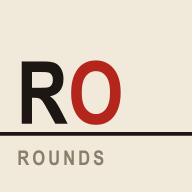
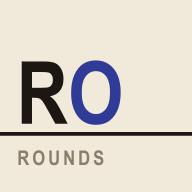
Indigo as the accent, cream paper as the ground
Nate didn't like the indigo-night ground and asked for indigo as the
accent instead. Back to Zagat cream (follows the phone: dark mode is
warm near-black), and indigo takes every job red had: list badges,
happy hour, active tab, half the wordmark, Add a place. Closed is
quiet ink-3; errors and Remove get a separate danger token. Icon O
recolored. Dot leaders, double rules, vibe line unchanged.
DESIGN.md colour section rewritten to match.

Changed region(s): [[0.3438, 0.3125, 0.6562, 0.6562]]

diff --git a/src/styles.css b/src/styles.css
@@ -1,23 +1,33 @@
 /* Rounds. Tokens per DESIGN.md; every rule below consumes them. */
-/* Menu after dark (2026-09-30): indigo night is the only theme, chosen from the moodboard deck. */
+/* Cream paper, indigo accent (2026-10-01): indigo moved from the ground to the
+ * one accent at Nate's ask. Follows the phone: dark mode is warm near-black. */
 :root {
   --font-display: "Archivo Narrow", "Arial Narrow", "Helvetica Neue", Arial, sans-serif;
   --font-body: "Archivo", "Helvetica Neue", Arial, sans-serif;
   --font-mono: "SF Mono", Menlo, Consolas, monospace;
-  --color-bg: #121933;
-  --color-bg-raised: #1A2346;
-  --color-ink: #F1E8D4;
-  --color-ink-2: #C7BFAC;
-  --color-ink-3: #8C90AC;
-  --color-rule: #2C3765;
-  --color-rule-strong: #F1E8D4;
-  --color-accent: #E04A37;
-  --color-badge: #C23A2B;
-  --color-accent-ink: #F8F1E1;
-  --color-warn-bg: #222C55;
+  --color-bg: #F1EADB;
+  --color-bg-raised: #F8F3E7;
+  --color-ink: #1C1712;
+  --color-ink-2: #55493B;
+  --color-ink-3: #8A7D6A;
+  --color-rule: #CFC3AA;
+  --color-rule-strong: #1C1712;
+  --color-accent: #2F3B96;
+  --color-badge: #2F3B96;
+  --color-accent-ink: #F8F3E7;
+  --color-danger: #A8321F;
+  --color-warn-bg: #E9DDBE;
   --radius: 2px;
   --shadow: none;
-  color-scheme: dark;
+  color-scheme: light dark;
+}
+@media (prefers-color-scheme: dark) {
+  :root {
+    --color-bg: #191511; --color-bg-raised: #221D17; --color-ink: #EFE6D3; --color-ink-2: #C2B49C;
+    --color-ink-3: #8C7F6B; --color-rule: #3C332A; --color-rule-strong: #EFE6D3;
+    --color-accent: #9AA5FF; --color-badge: #3E4BB0; --color-accent-ink: #F4EEE0;
+    --color-danger: #E2674F; --color-warn-bg: #2E271C;
+  }
 }
 
 * { box-sizing: border-box; }
@@ -66,7 +76,7 @@ input[type="search"] { -webkit-appearance: none; }
 .count-acts { display: flex; gap: 14px; }
 .toggle.reset { color: var(--color-accent); font-weight: 600; }
 .toggle, .link { color: var(--color-ink-2); background: none; border: 0; padding: 0; text-decoration: underline; text-underline-offset: 3px; font-size: inherit; }
-.link.danger { color: var(--color-accent); }
+.link.danger { color: var(--color-danger); }
 
 /* entries */
 .list { list-style: none; margin: 0; padding: 0; }
@@ -100,7 +110,7 @@ input[type="search"] { -webkit-appearance: none; }
 .vibe-by { font-style: normal; font-family: var(--font-display); font-weight: 700; font-size: 9.5px; letter-spacing: 0.1em; text-transform: uppercase; color: var(--color-ink-3); white-space: nowrap; margin-left: 2px; }
 .meta { grid-area: meta; align-self: center; font-size: 12px; color: var(--color-ink-3); font-variant-numeric: tabular-nums; margin-top: 4px; }
 .meta .open { color: var(--color-ink-2); font-weight: 500; }
-.meta .closed { color: var(--color-accent); font-weight: 500; }
+.meta .closed { color: var(--color-ink-3); font-weight: 500; }
 .meta .hh { color: var(--color-accent); font-weight: 500; }
 .meta .l { font-family: var(--font-display); font-weight: 700; letter-spacing: 0.04em; color: var(--color-ink-2); }
 .meta .l::before { content: "L "; color: var(--color-ink-3); font-weight: 500; }
@@ -138,7 +148,7 @@ input[type="search"] { -webkit-appearance: none; }
 .capture > * { max-width: 528px; margin: 0 auto; display: block; }
 
 /* sheet */
-.sheet-back { position: fixed; inset: 0; background: rgba(6, 9, 22, 0.6); z-index: 20; display: flex; align-items: flex-end; justify-content: center; }
+.sheet-back { position: fixed; inset: 0; background: rgba(20, 16, 12, 0.45); z-index: 20; display: flex; align-items: flex-end; justify-content: center; }
 .sheet { width: 100%; max-width: 560px; max-height: 92vh; overflow-y: auto; background: var(--color-bg); border-top: 2px solid var(--color-rule-strong); padding: 14px 16px calc(16px + env(safe-area-inset-bottom, 0px)); display: flex; flex-direction: column; gap: 8px; }
 .photo { margin: 0 -16px 4px; }
 .photo img { display: block; width: 100%; max-height: 260px; object-fit: cover; background: var(--color-bg-raised); }
@@ -169,7 +179,7 @@ input[type="search"] { -webkit-appearance: none; }
 .hit .muted, li.hit.muted { color: var(--color-ink-3); font-style: italic; cursor: default; }
 .sheet-acts { display: flex; justify-content: space-between; align-items: center; margin-top: 8px; }
 .sheet-acts .btn-solid { margin-left: auto; }
-.err { color: var(--color-accent); font-size: 13px; }
+.err { color: var(--color-danger); font-size: 13px; }
 
 /* auth */
 .auth-shell { min-height: 100%; display: flex; align-items: center; justify-content: center; padding: 24px 16px; background: var(--color-bg); }

diff --git a/index.html b/index.html
@@ -3,9 +3,10 @@
   <head>
     <meta charset="utf-8" />
     <meta name="viewport" content="width=device-width, initial-scale=1, maximum-scale=1, viewport-fit=cover" />
-    <meta name="theme-color" content="#121933" />
+    <meta name="theme-color" content="#F1EADB" media="(prefers-color-scheme: light)" />
+    <meta name="theme-color" content="#191511" media="(prefers-color-scheme: dark)" />
     <meta name="apple-mobile-web-app-capable" content="yes" />
-    <meta name="apple-mobile-web-app-status-bar-style" content="black-translucent" />
+    <meta name="apple-mobile-web-app-status-bar-style" content="default" />
     <meta name="apple-mobile-web-app-title" content="Rounds" />
     <link rel="manifest" href="manifest.webmanifest" />
     <link rel="apple-touch-icon" href="icon-192.png" />

diff --git a/public/sw.js b/public/sw.js
@@ -1,5 +1,5 @@
 /* Rounds service worker. Bump CACHE on every ship (the /ship skill does it). */
-const CACHE = 'rounds-v15'
+const CACHE = 'rounds-v16'
 self.addEventListener('install', (e) => { self.skipWaiting() })
 self.addEventListener('activate', (e) => {
   e.waitUntil(caches.keys().then((keys) => Promise.all(keys.filter((k) => k !== CACHE).map((k) => caches.delete(k)))).then(() => self.clients.claim()))

diff --git a/DESIGN.md b/DESIGN.md
@@ -7,7 +7,7 @@ Read this before changing anything visual.
 **The Zagat pocket guide, 1990s to 2000s.** A dense, typographic catalogue of
 places: condensed bold names in caps, a neighborhood line in small caps, a
 quoted line stitched from what people actually said, a small red mark for the
-ones that made a list. Cream paper, black ink, one red. No pictures.
+ones that made a list (Rounds spends that one accent in indigo). Cream paper, black ink, one accent. No pictures.
 
 The thing to keep hold of: it is a *reference book you carry*, not a feed. Every
 entry is scannable in one second, and the personality is in the quotes, which
@@ -28,38 +28,43 @@ discovery app (photos, cards, ratings, a map hero) it is wrong.
 - Emoji. Icons beside labels. A glyph appears only when it carries meaning alone.
 - A map as the primary surface. "Go" hands off to Google Maps.
 
-## Colour: menu after dark (2026-09-30)
+## Colour: cream paper, indigo accent (2026-10-01)
 
-The moodboard deck (App-moodboard-v2, Rounds slide) notes from Nate and Amanda:
-"Dark mode; try a blue or indigo." Nate picked the "menu after dark" direction.
-Indigo night is the **only** theme; it does not follow the phone's system
-setting. Who owns what:
+History: the moodboard deck notes ("Dark mode; try a blue or indigo") led to
+an indigo-night ground on 2026-09-30. Nate, a day later: "I don't like the
+colors as much. Can we make the indigo the accent rather than the
+background?" So the ground went back to Zagat cream and indigo replaced red
+as the one accent. The theme follows the phone: light is cream, dark is warm
+near-black, never indigo. Who owns what:
 
-- **Zagat pocket guide** still owns type, density, the quoted notes and the
-  one-red rule. Unchanged.
-- **The Infatuation + NYT 100 Best** (both blue grounds, sampled `#3C63EF` and
-  `#599EE3`) own the ground. Taken darker to indigo so the cream reads at night.
+- **Zagat pocket guide** owns the ground (cream paper, black ink), type,
+  density and the quoted notes.
+- **The Infatuation + NYT 100 Best** (both blue, sampled `#3C63EF` and
+  `#599EE3`) own the accent, taken darker to indigo so it holds on cream.
 - **Old NYC menus** own the devices: the dot leader and the double rule.
 
-| Token | Value | Role |
-| --- | --- | --- |
-| `--color-bg` | `#121933` | Page ground, indigo night. |
-| `--color-bg-raised` | `#1A2346` | Inputs, the capture bar. |
-| `--color-ink` | `#F1E8D4` | Names, notes, rules, cream like menu stock. |
-| `--color-ink-2` | `#C7BFAC` | Neighborhood line, meta. |
-| `--color-ink-3` | `#8C90AC` | Tags, counts, placeholders, the leader dots. |
-| `--color-rule` | `#2C3765` | Hairlines between entries. |
-| `--color-accent` | `#E04A37` | Red as text or a line: HH, closed, active tab, half the wordmark. |
-| `--color-badge` | `#C23A2B` | Red as a fill: list badges, Add a place. Darker so cream text holds. |
-| `--color-accent-ink` | `#F8F1E1` | Text on a red fill. |
-| `--color-warn-bg` | `#222C55` | The "no why yet" flag. |
+| Token | Light | Dark | Role |
+| --- | --- | --- | --- |
+| `--color-bg` | `#F1EADB` | `#191511` | Page ground, cream paper. |
+| `--color-bg-raised` | `#F8F3E7` | `#221D17` | Inputs, the capture bar. |
+| `--color-ink` | `#1C1712` | `#EFE6D3` | Names, notes, rules. |
+| `--color-ink-2` | `#55493B` | `#C2B49C` | Neighborhood line, meta. |
+| `--color-ink-3` | `#8A7D6A` | `#8C7F6B` | Tags, counts, placeholders, leader dots, "closed". |
+| `--color-rule` | `#CFC3AA` | `#3C332A` | Hairlines between entries. |
+| `--color-accent` | `#2F3B96` | `#9AA5FF` | Indigo as text or a line: HH, active tab, half the wordmark, focus. |
+| `--color-badge` | `#2F3B96` | `#3E4BB0` | Indigo as a fill: list badges, Add a place. |
+| `--color-accent-ink` | `#F8F3E7` | `#F4EEE0` | Text on an indigo fill. |
+| `--color-danger` | `#A8321F` | `#E2674F` | Errors and Remove only. Never decoration. |
+| `--color-warn-bg` | `#E9DDBE` | `#2E271C` | The "no why yet" flag. |
 
-No colour outside this table enters the app. The red is spent on provenance
-and time-sensitive facts (NYT Best, Infatuation, happy hour), never on decoration.
-A CREAM (ink-filled) badge ("Rec · Nate") means a person vouched for it; that is the personal-versus-list distinction Nate asked for on 2026-09-16 and it must stay visually distinct from the red list badges. A red badge means the place is on a curated list Nate trusts; the keys live in
-`src/lib/tags.js` `LIST_SOURCES`. Nate signed off on the Zagat look 2026-09-16.
+No colour outside this table enters the app. The indigo is spent on
+provenance and time-sensitive facts (NYT Best, Infatuation, happy hour) and
+the few controls that need to be found (active tab, Add a place), never on
+decoration. "Closed" is quiet ink-3, not a colour: it is a state, not an alarm.
+An INK-filled badge ("Rec · Nate") means a person vouched for it; that is the personal-versus-list distinction Nate asked for on 2026-09-16 and it must stay visually distinct from the indigo list badges. An indigo badge means the place is on a curated list Nate trusts; the keys live in
+`src/lib/tags.js` `LIST_SOURCES`.
 
-Filter chips are one style in every row: ink outline, ink fill when active. No red chips; red is reserved for badges and time-sensitive facts (Nate, 2026-09-17, on seeing three chip styles stacked).
+Filter chips are one style in every row: ink outline, ink fill when active. No indigo chips; indigo is reserved for badges, time-sensitive facts and the two controls above (Nate, 2026-09-17, on seeing three chip styles stacked).
 
 ## Photo and vibe line (2026-09-30, from the deck: "picture API? Vibe of place?")
 
@@ -84,8 +89,9 @@ It answers "how far" at a glance, which is the question the list exists for.
 Distance never appears in the meta line too. Section breaks (masthead, tail
 heads) are a 4px double rule, the menu's frame line.
 
-If a change makes it look like a dark-mode dashboard (glows, gradients, blue
-accents on everything), it is wrong: indigo is the ground, not a highlight.
+If a change makes it look like a tech product (indigo grounds, glows,
+gradients, blue on everything), it is wrong: indigo is a pen mark on paper,
+not the paper.
 
 ## Type
 
